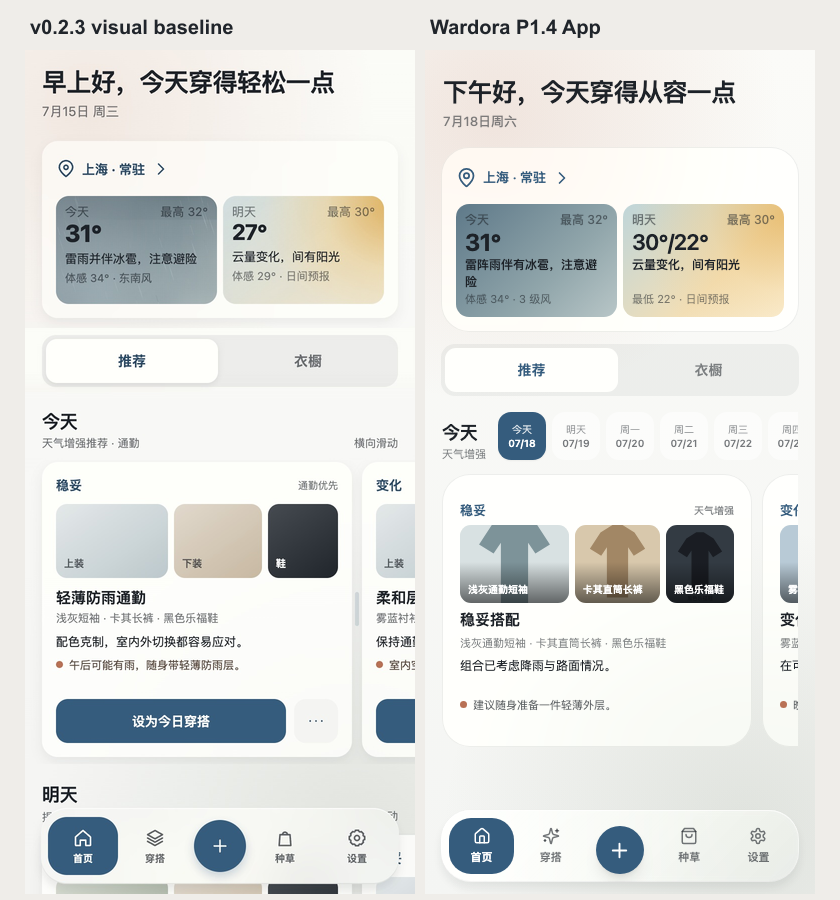
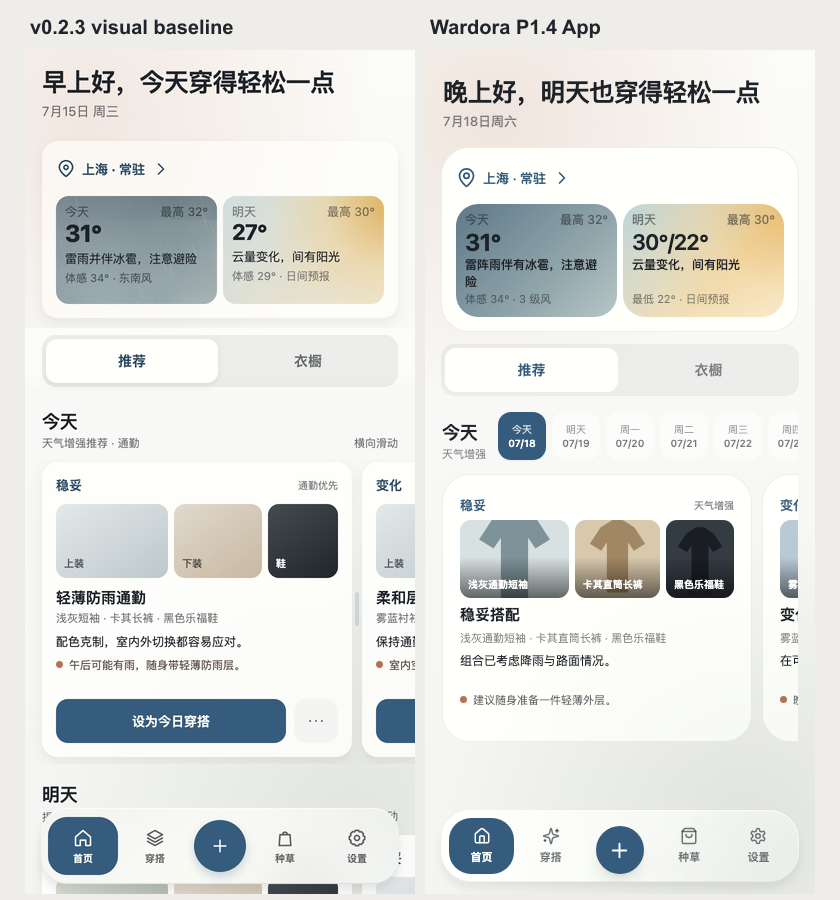
fix: align home card geometry and weather material

diff --git a/src/components/home/wardora-home-view.tsx b/src/components/home/wardora-home-view.tsx
@@ -35,16 +35,16 @@ export function WardoraHomeView({ controller, garments, renderWardrobeContent }:
         <p className="mt-[7px] text-[13px] font-medium leading-[1.35] text-ink/55" data-testid="home-business-date">{formatBusinessDate(controller.window.today)}</p>
       </header>
 
-      <section className="ui-card overflow-hidden p-3.5 !shadow-none" aria-label="今日和明日天气" data-testid="home-weather-module">
+      <section className="home-weather-shell ui-card overflow-hidden p-3.5" aria-label="今日和明日天气" data-testid="home-weather-module">
         <AppPressable
           feedback="control"
-          className="-ml-2 -mt-2 mb-0.5 flex min-h-12 max-w-full items-center gap-1.5 rounded-xl px-2 text-left text-[13px] font-semibold text-denim"
+          className="-ml-2 -mt-2 mb-0.5 flex min-h-12 max-w-full items-center gap-1.5 rounded-xl px-2 text-left text-[13px] font-semibold leading-[18px] text-denim"
           onClick={() => controller.setCityOpen(true)}
           aria-label="选择天气地点"
           data-testid="home-location-entry"
         >
           <MapPin size={21} aria-hidden="true" />
-          <span className="truncate">{locationLabel(vm.location)}</span>
+          <span className="truncate" data-testid="home-location-label">{locationLabel(vm.location)}</span>
           <ChevronRight className="shrink-0" size={20} aria-hidden="true" />
         </AppPressable>
         {vm.location.kind === "none" ? (
@@ -167,8 +167,8 @@ export function homeCitySheetLocationActions(hasTemporaryOverride: boolean): rea
 }
 
 function WeatherDayCard({ kind, weather, onClick, onRetry }: { kind: "today" | "tomorrow"; weather: HomeWeatherViewModel; onClick: () => void; onRetry: () => unknown }) {
-  if (weather.status === "loading" || weather.status === "idle") return <div className="grid min-h-[108px] place-items-center rounded-[13px] bg-mist/75 px-2 text-center text-xs text-ink/55"><Loader2 className="animate-spin motion-reduce:animate-none" size={19} /><span>{kind === "today" ? "正在读取今天" : "正在读取明天"}</span></div>;
-  if (weather.status === "error") return <div className="grid min-h-[108px] content-center rounded-[13px] bg-mist/75 px-2 text-center"><AlertCircle className="mx-auto text-clay" size={18} /><p className="mt-1 line-clamp-2 text-[11px] text-ink/65">{weather.message}</p><AppPressable className="mx-auto min-h-11 px-3 text-xs font-semibold text-denim" onClick={() => void onRetry()}>重试</AppPressable></div>;
+  if (weather.status === "loading" || weather.status === "idle") return <div className="home-weather-day-card grid min-h-[108px] place-items-center bg-mist/75 px-2 text-center text-xs text-ink/55"><Loader2 className="animate-spin motion-reduce:animate-none" size={19} /><span>{kind === "today" ? "正在读取今天" : "正在读取明天"}</span></div>;
+  if (weather.status === "error") return <div className="home-weather-day-card grid min-h-[108px] content-center bg-mist/75 px-2 text-center"><AlertCircle className="mx-auto text-clay" size={18} /><p className="mt-1 line-clamp-2 text-[11px] text-ink/65">{weather.message}</p><AppPressable className="mx-auto min-h-11 px-3 text-xs font-semibold text-denim" onClick={() => void onRetry()}>重试</AppPressable></div>;
   if (weather.status !== "ready") return null;
   const isToday = kind === "today";
   const temperature = isToday && weather.temperatureC !== undefined
@@ -177,7 +177,7 @@ function WeatherDayCard({ kind, weather, onClick, onRetry }: { kind: "today" | "
   return (
     <AppPressable
       feedback="card"
-      className="home-weather-static relative h-[113px] overflow-hidden rounded-[13px] px-[9px] pb-[5px] pt-[7px] text-left"
+      className="home-weather-day-card home-weather-static relative h-[113px] overflow-hidden px-[9px] pb-[5px] pt-[7px] text-left"
       onClick={onClick}
       aria-label={`${isToday ? "今天" : "明天"}天气，切换到${isToday ? "今日" : "明日"}推荐`}
       data-testid={`home-weather-${kind}`}
@@ -210,8 +210,8 @@ function SectionHeading({ title, subtitle, action, compact = false }: { title: s
 function RecommendationCard({ candidate, garmentById, contextMode }: { candidate: HomeRecommendationCandidate; garmentById: ReadonlyMap<string, HomeGarment>; contextMode: "forecast" | "locationless" | "weather_fallback" }) {
   const garments = candidate.garmentIds.map((id) => garmentById.get(id)).filter((item): item is HomeGarment => Boolean(item));
   const target = objectiveLabel(candidate.objective);
-  return <article className="ui-card grid w-[310px] min-w-[310px] max-w-[calc(100vw-50px)] basis-[310px] snap-start grid-rows-[18px_78px_20px_16px_34px_32px] gap-y-1.5 px-[17px] pb-[17px] pt-[26px] !shadow-none" data-testid="home-recommendation-card">
-    <div data-rec-row="target" className="flex h-[18px] items-center justify-between gap-3"><span className="text-[13px] font-bold leading-[18px] text-denim">{target}</span><span className="text-[10px] font-medium leading-[18px] text-ink/55">{contextLabel(contextMode)}</span></div>
+  return <article className="ui-card grid w-[310px] min-w-[310px] max-w-[calc(100vw-50px)] basis-[310px] snap-start grid-rows-[18px_78px_20px_16px_34px_32px] gap-y-1.5 px-[17px] pb-[17px] pt-[21px] !shadow-none" data-testid="home-recommendation-card">
+    <div data-rec-row="target" className="flex h-[18px] items-center justify-between gap-3"><span className="text-[13px] font-bold leading-[18px] text-denim" data-testid="home-recommendation-target-label">{target}</span><span className="text-[10px] font-medium leading-[18px] text-ink/55">{contextLabel(contextMode)}</span></div>
     <div className="grid h-[78px] grid-cols-[1.15fr_.9fr_.72fr] gap-1.5" aria-label={garments.map((item) => item.name).join("、")}>
       {garments.slice(0, 3).map((item) => <div key={item.id} className="relative min-w-0 overflow-hidden rounded-[11px] bg-mist"><OnlineAssetImage asset={item.imageAsset} variant="thumbnail" alt={item.name} className="h-full w-full" imageClassName="object-cover" fallback={<div className="grid h-full place-items-center text-ink/25"><Shirt size={25} /></div>} /><span className="absolute inset-x-0 bottom-0 truncate bg-gradient-to-t from-black/55 to-transparent px-2 pb-1.5 pt-5 text-[10px] font-semibold text-white">{item.name}</span></div>)}
     </div>

diff --git a/src/app/globals.css b/src/app/globals.css
@@ -177,6 +177,18 @@ button {
 }
 
 /* Wardora v0.2.3 ambient palette rendered as static P1.4 backgrounds. Canvas remains a P3 concern. */
+.home-weather-shell {
+  background: var(--color-surface);
+  box-shadow: none;
+  -webkit-backdrop-filter: none;
+  backdrop-filter: none;
+}
+
+.home-weather-day-card {
+  border-radius: var(--ui-radius-inner);
+  box-shadow: none;
+}
+
 .home-weather-static[data-weather-family="clear"] {
   background: radial-gradient(circle at 102% 10%, rgba(224, 164, 62, 0.72), rgba(241, 197, 118, 0.34) 40%, transparent 78%), linear-gradient(135deg, #bfd5d9 0%, #f2dfb7 62%, #fbf2dc 100%);
 }
